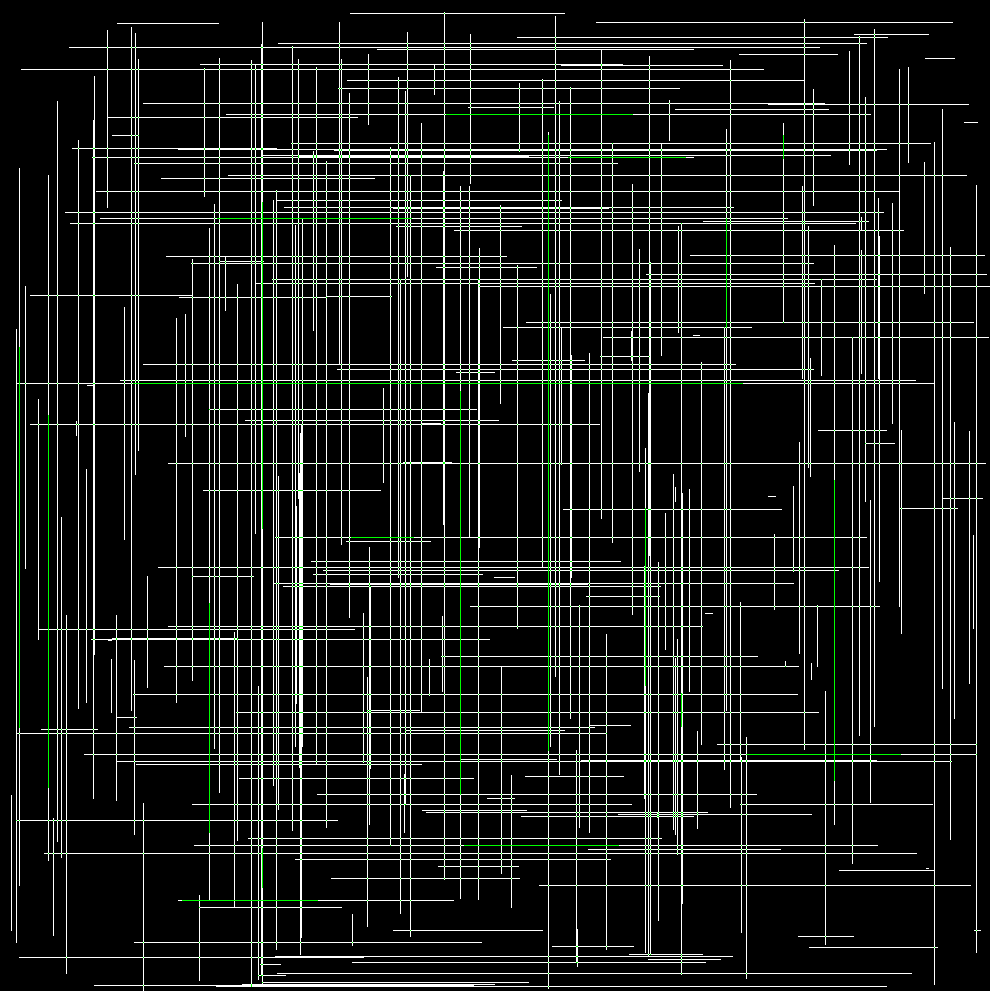
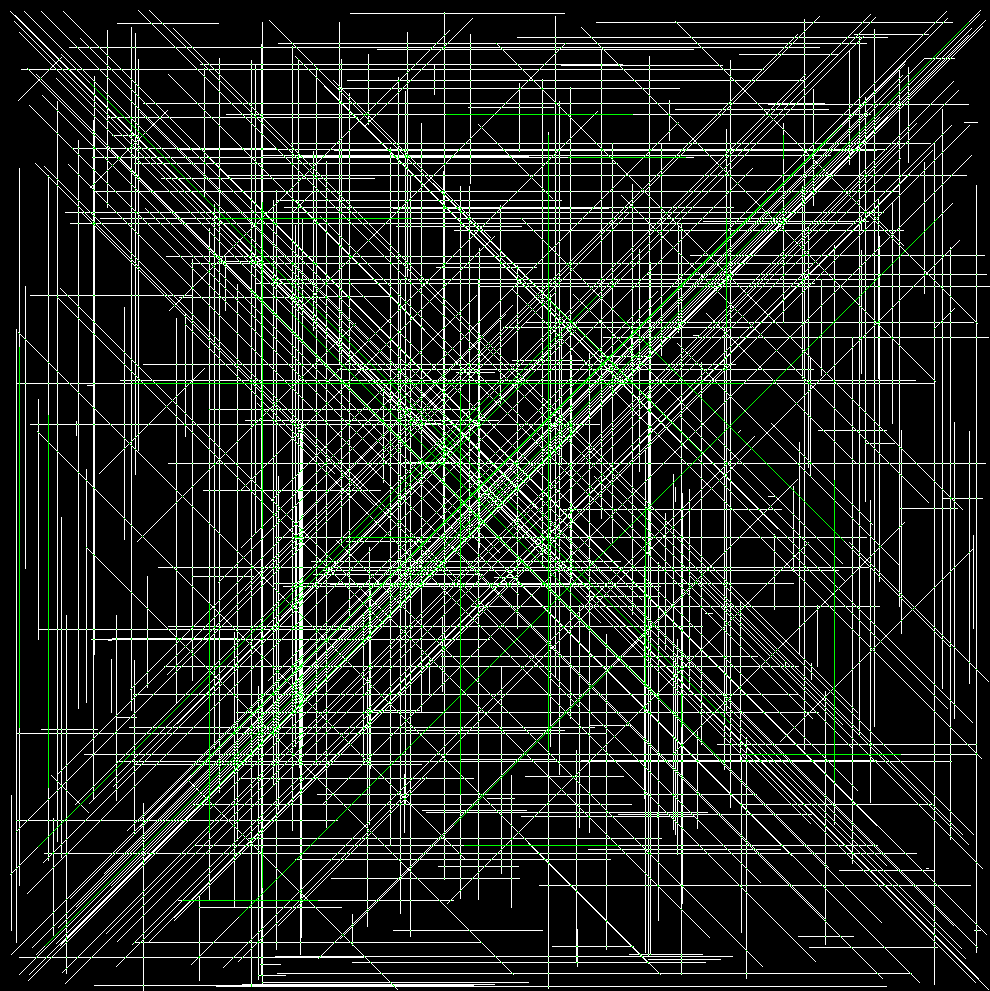
day 5 part two - diagonal thermal vents

diff --git a/aoc-2021/helpers/grid-to-image.js b/aoc-2021/helpers/grid-to-image.js
@@ -9,24 +9,16 @@ const jimp_1 = __importDefault(require("jimp"));
 const color_1 = require("../enum/color");
 /*
 * This helper takes a filename and a grid and saves that grid on a file.
-*
-* Todo: allow for a config prop which allows for custom rules and colors.
+* an additional rules array is taken which allows custom rules to be set
+* for the colors on the image.
 * */
 async function gridToImage(fileName, grid, rules) {
     let gridArray = grid.toString().split(',').map(my_parse_int_1.myParseInt);
     let image = await new jimp_1.default(grid.height, grid.width, color_1.Color.RED);
     for (let x = 0; x < grid.width; x++) {
         for (let y = 0; y < grid.height; y++) {
-            // let color = Color.BLACK;
             let applicableRule = rules.find((rule) => rule.condition(x, y));
             let color = applicableRule?.color || color_1.Color.BLACK;
-            // if (grid.isIntersection(x, y)) {
-            //     color = Color.GREEN;
-            // }
-            //
-            // if (grid.isSegment(x, y)) {
-            //     color = Color.WHITE;
-            // }
             image.setPixelColor(color, y, x);
         }
     }

diff --git a/aoc-2021/classes/segment.js b/aoc-2021/classes/segment.js
@@ -36,6 +36,21 @@ class Segment {
                 points.push(new coordinate_1.Coordinate(x, this.start.y));
             }
         }
+        let diagonal = !this.isHorizontal() && !this.isVertical();
+        if (diagonal) {
+            let [hStart, hEnd] = [this.start, this.end].sort(coordinate_1.Coordinate.horizontalAscSort);
+            // let [vStart, vEnd] = [this.start, this.end].sort(Coordinate.verticalAscSort);
+            // let isVerticalAscending = hStart.y <= hStart.y;
+            let verticalDelta = hEnd.y - hStart.y;
+            let verticalIncrements = Math.max(-1, Math.min(verticalDelta, 1));
+            let x = hStart.x;
+            let y = hStart.y;
+            while (x < hEnd.x + 1) {
+                points.push(new coordinate_1.Coordinate(x, y));
+                x++;
+                y += verticalIncrements;
+            }
+        }
         return points;
     }
 }

diff --git a/aoc-2021/classes/segment.ts b/aoc-2021/classes/segment.ts
@@ -49,6 +49,26 @@ class Segment {
             }
         }
 
+        let diagonal = !this.isHorizontal() && !this.isVertical();
+        if (diagonal) {
+            let [hStart, hEnd] = [this.start, this.end].sort(Coordinate.horizontalAscSort);
+            // let [vStart, vEnd] = [this.start, this.end].sort(Coordinate.verticalAscSort);
+            // let isVerticalAscending = hStart.y <= hStart.y;
+            let verticalDelta = hEnd.y - hStart.y
+            let verticalIncrements = Math.max(-1, Math.min(verticalDelta, 1));
+
+            let x = hStart.x;
+            let y = hStart.y
+
+            while (x < hEnd.x + 1) {
+                points.push(new Coordinate(x, y));
+                x++;
+                y += verticalIncrements;
+            }
+
+
+        }
+
         return points;
     }
 }

diff --git a/aoc-2021/05-hydrothermal-vents.js b/aoc-2021/05-hydrothermal-vents.js
@@ -2,7 +2,7 @@
 Object.defineProperty(exports, "__esModule", { value: true });
 exports.HydrothermalVents = void 0;
 const my_parse_int_1 = require("./helpers/my-parse-int");
-const vector_1 = require("./classes/vector");
+const segment_1 = require("./classes/segment");
 const grid_1 = require("./classes/grid");
 class HydrothermalVents {
     constructor(input) {
@@ -40,7 +40,7 @@ class HydrothermalVents {
     }
     initializeLineSegments() {
         for (let vectorString of this.raw) {
-            this.lineSegments.push(vector_1.Segment.FromString(vectorString));
+            this.lineSegments.push(segment_1.Segment.FromString(vectorString));
         }
     }
     getHighestXCoord() {

diff --git a/aoc-2021/index.js b/aoc-2021/index.js
@@ -54,6 +54,9 @@ async function dayFive_vents() {
     let rules = [];
     rules.push(new grid_to_image_1.ImageRule(vents.grid.isIntersection, color_1.Color.GREEN));
     rules.push(new grid_to_image_1.ImageRule(vents.grid.isSegment, color_1.Color.WHITE));
-    (0, grid_to_image_1.gridToImage)('vents-test', vents.grid, rules);
+    (0, grid_to_image_1.gridToImage)('vents', vents.grid, rules);
+    // 21908 - too high
+    // 10368 - too low
+    // 21350 - too low
 }
 run();

diff --git a/aoc-2021/classes/grid.js b/aoc-2021/classes/grid.js
@@ -26,9 +26,7 @@ class Grid {
             this.grid[x][y] += 1;
         }
         catch (e) {
-            console.log(`width: ${this.width}, height: ${this.height}`);
-            throw new Error(`failed incrementing grid at (${x}, ${y}).`);
-            // throw new Error(e);
+            throw new Error(`failed incrementing grid at (${x}, ${y}). Grid has dimensions width: ${this.width} and height: ${this.height}`);
         }
     }
     getIntersections() {

diff --git a/aoc-2021/index.ts b/aoc-2021/index.ts
@@ -74,6 +74,12 @@ async function dayFive_vents(){
     rules.push(new ImageRule(vents.grid.isSegment, Color.WHITE));
 
     gridToImage('vents', vents.grid, rules);
+
+    // 21908 - too high
+    // 10368 - too low
+    // 21350 - too low
+    // 21373 - 
+
 }
 
 

diff --git a/aoc-2021/05-hydrothermal-vents.ts b/aoc-2021/05-hydrothermal-vents.ts
@@ -1,5 +1,5 @@
 import {myParseInt} from "./helpers/my-parse-int";
-import {Segment} from "./classes/vector";
+import {Segment} from "./classes/segment";
 import {Grid} from "./classes/grid";
 import {Coordinate} from "./classes/coordinate";
 
